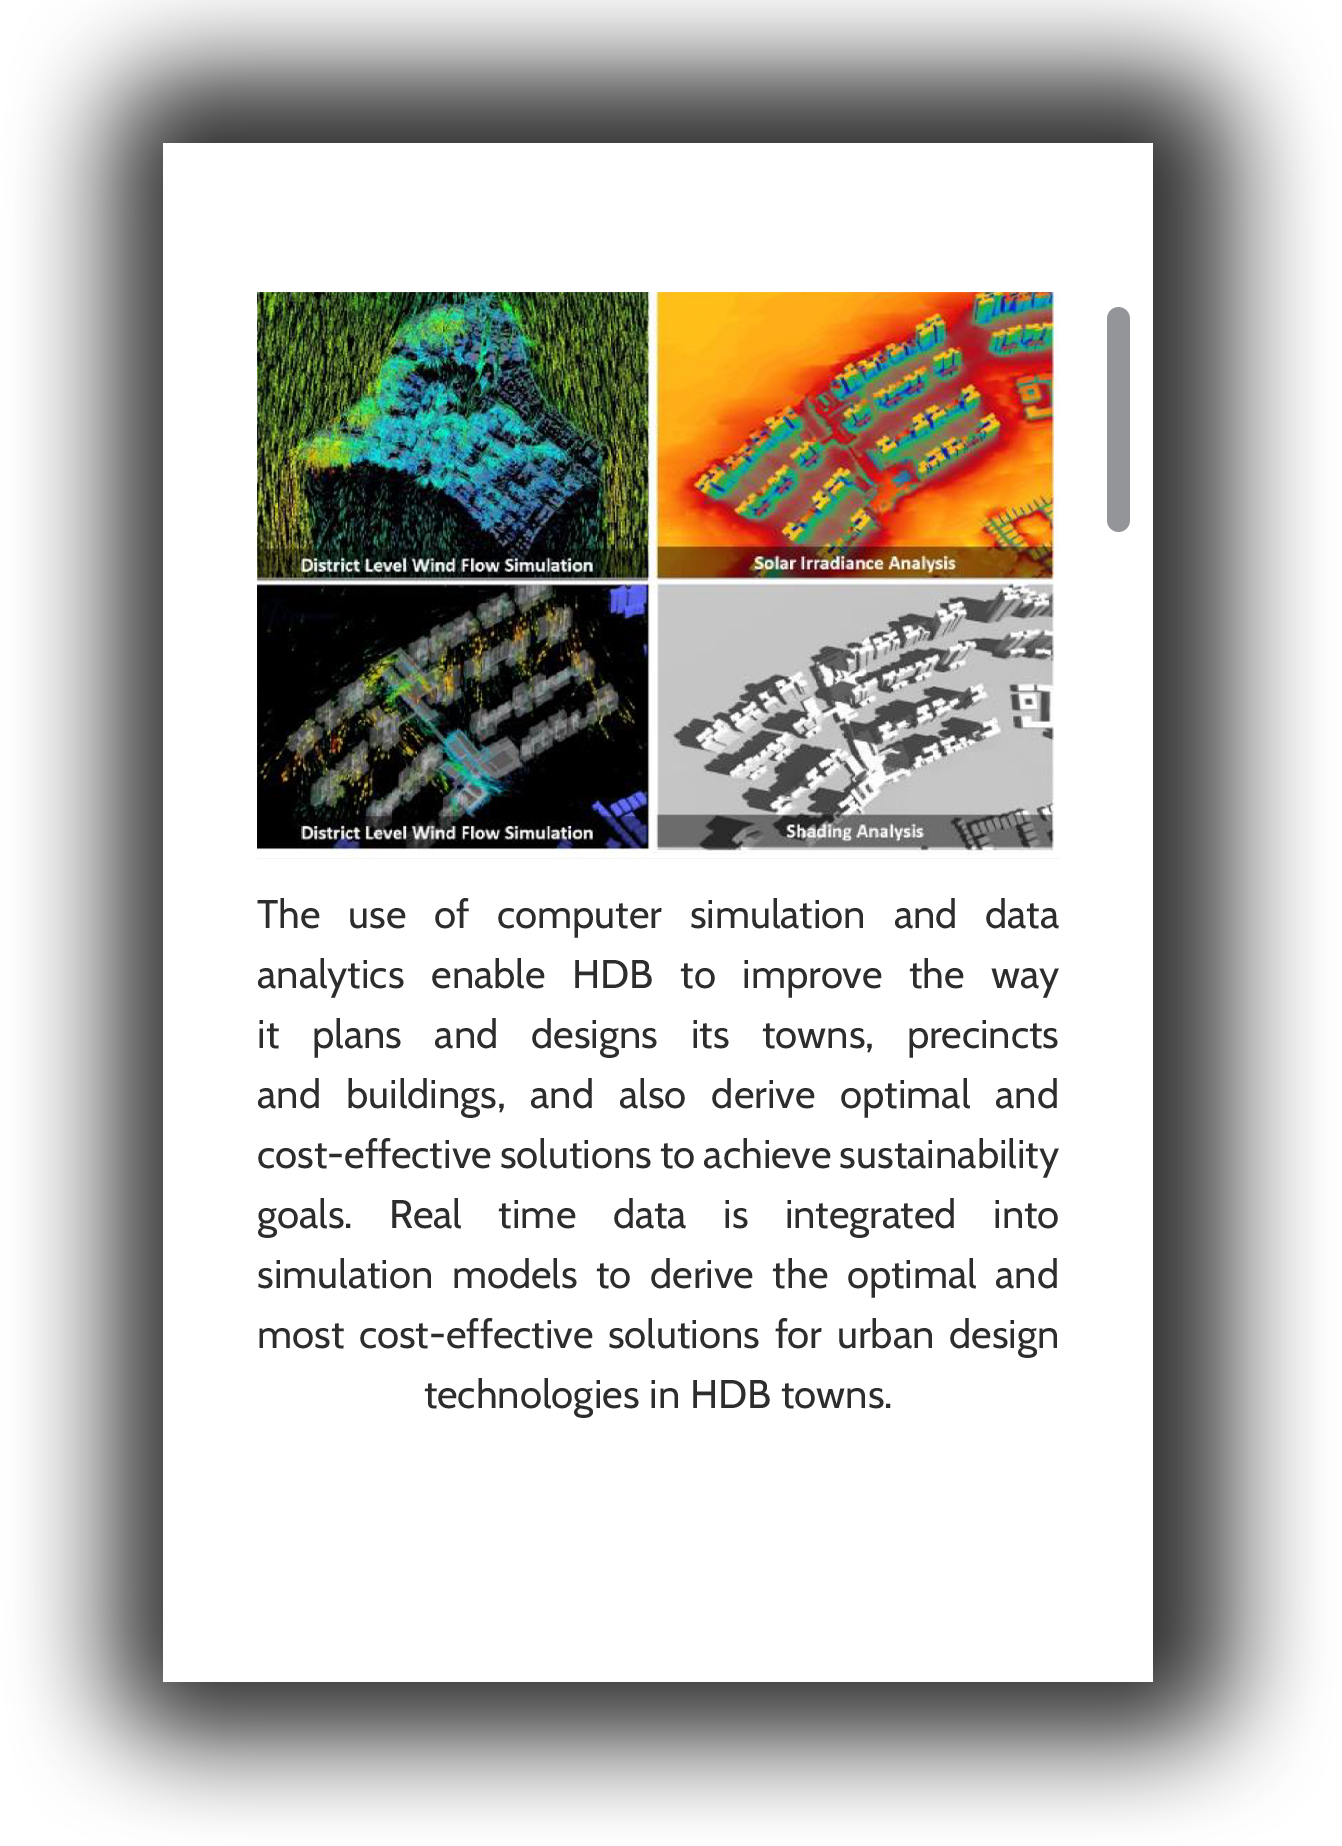
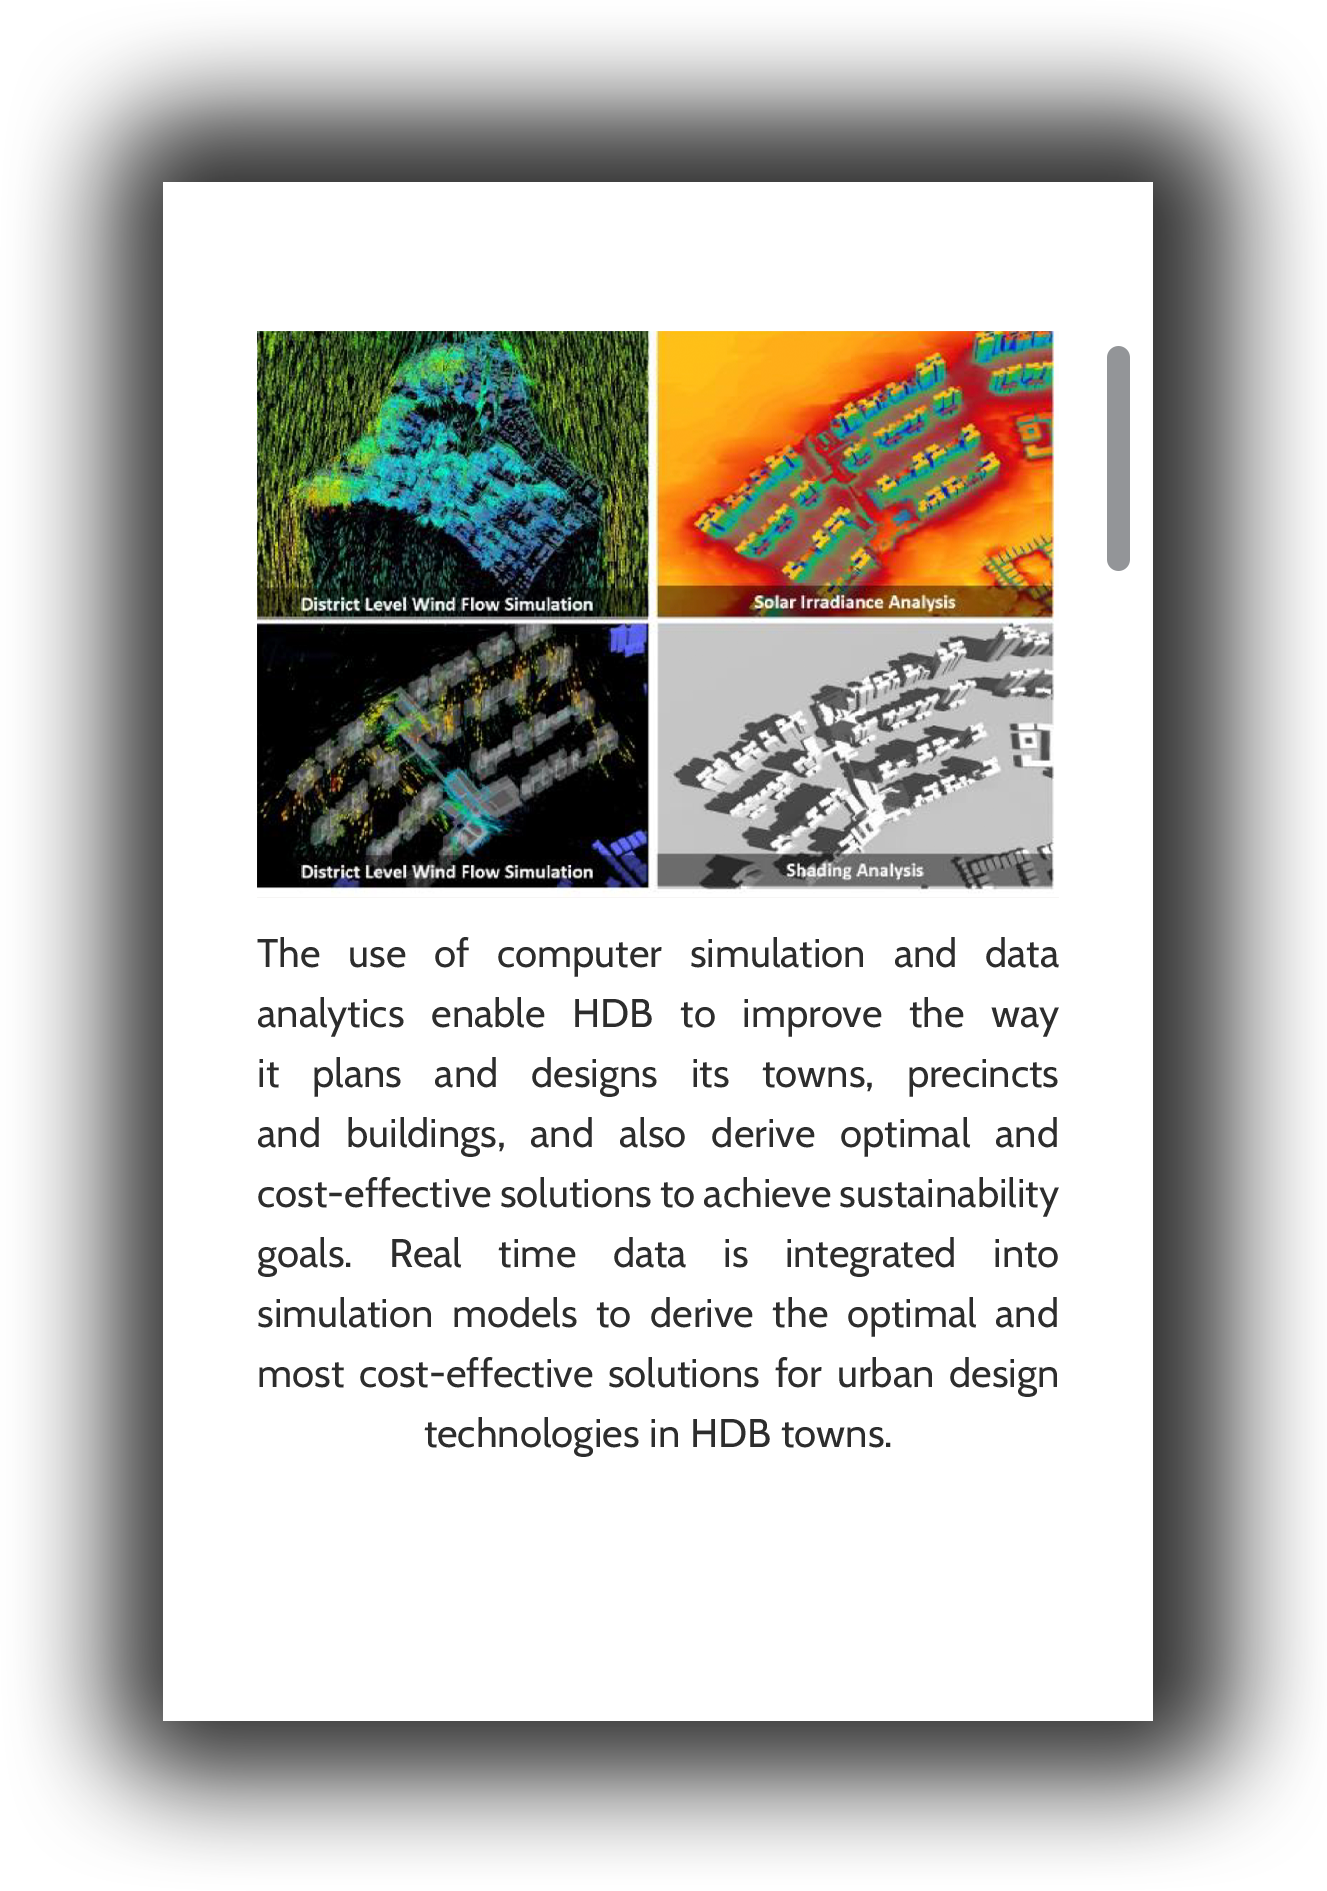
...

Changed region(s): [[0.0618, 0.0, 0.9269, 0.9263]]

diff --git a/DigiMagic/hdb-ar/environmental/index.html b/DigiMagic/hdb-ar/environmental/index.html
@@ -88,7 +88,7 @@
 			position: absolute;
 			width: 50%;
 			height: auto;
-			top: 65%;
+			top: 62.5%;
 			left: 50%;
 			transform: translate(-50%, -50%);
 			display: none;
